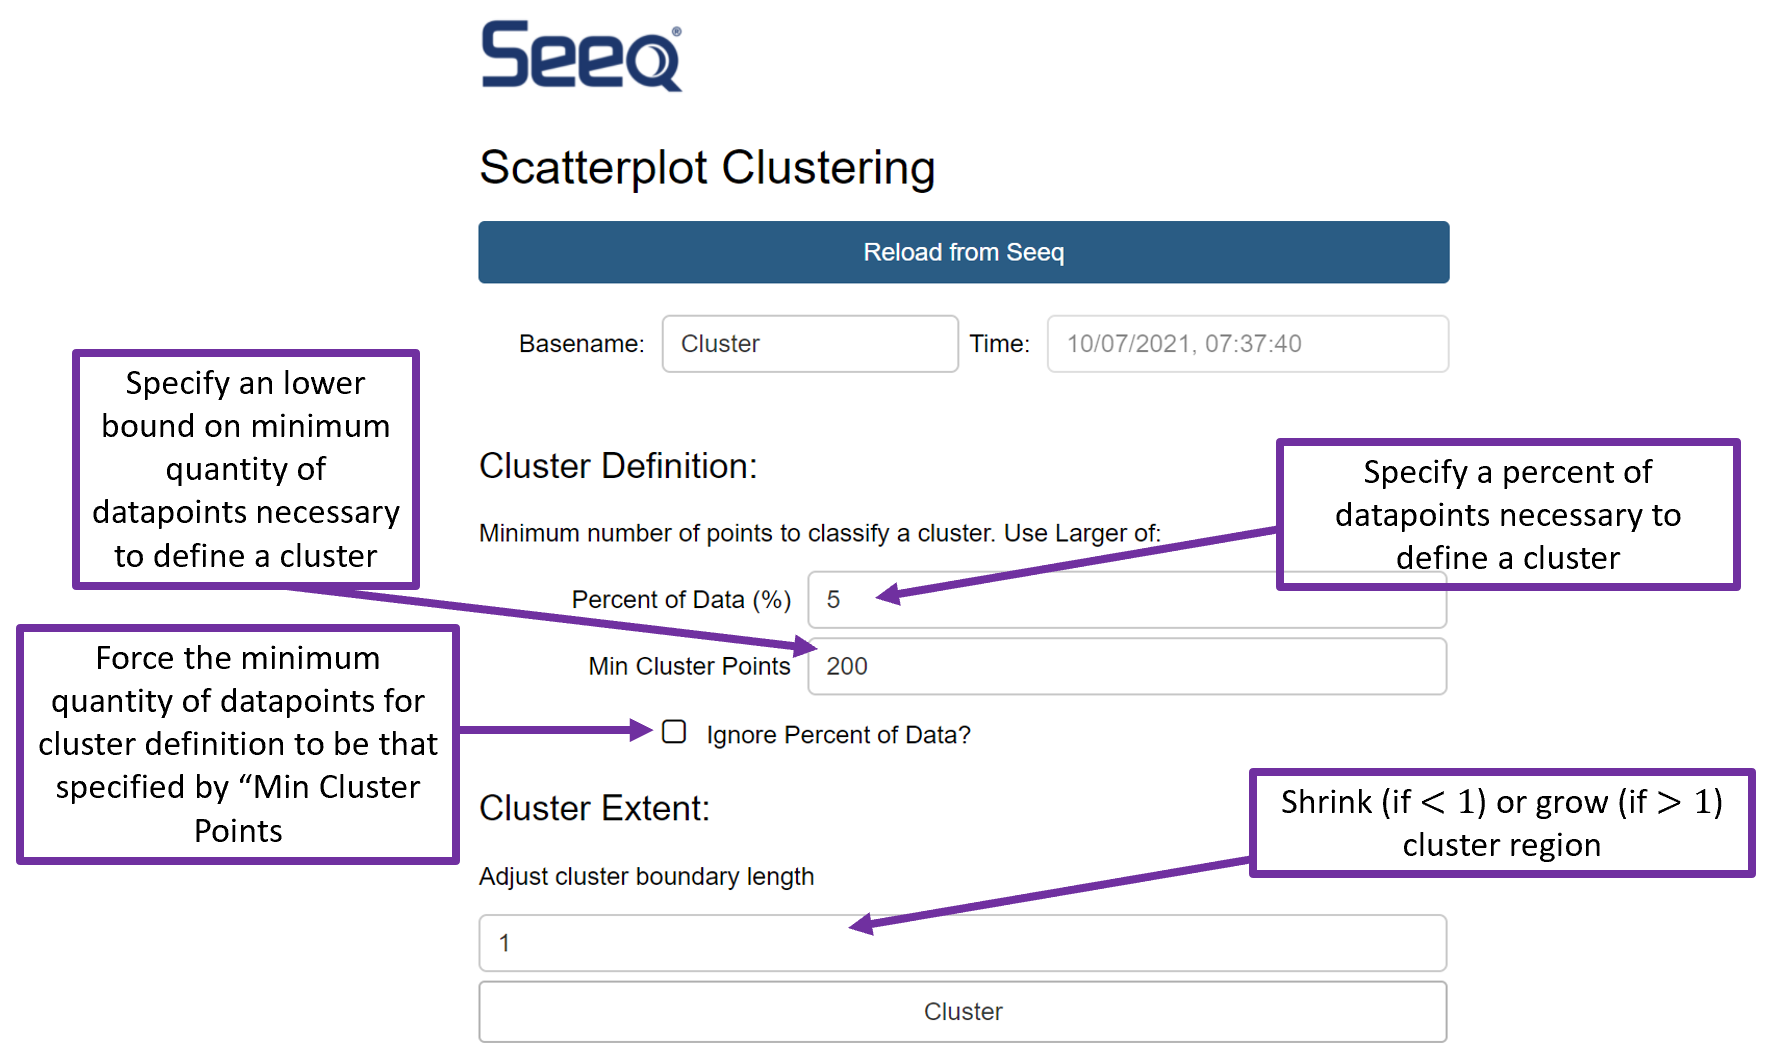
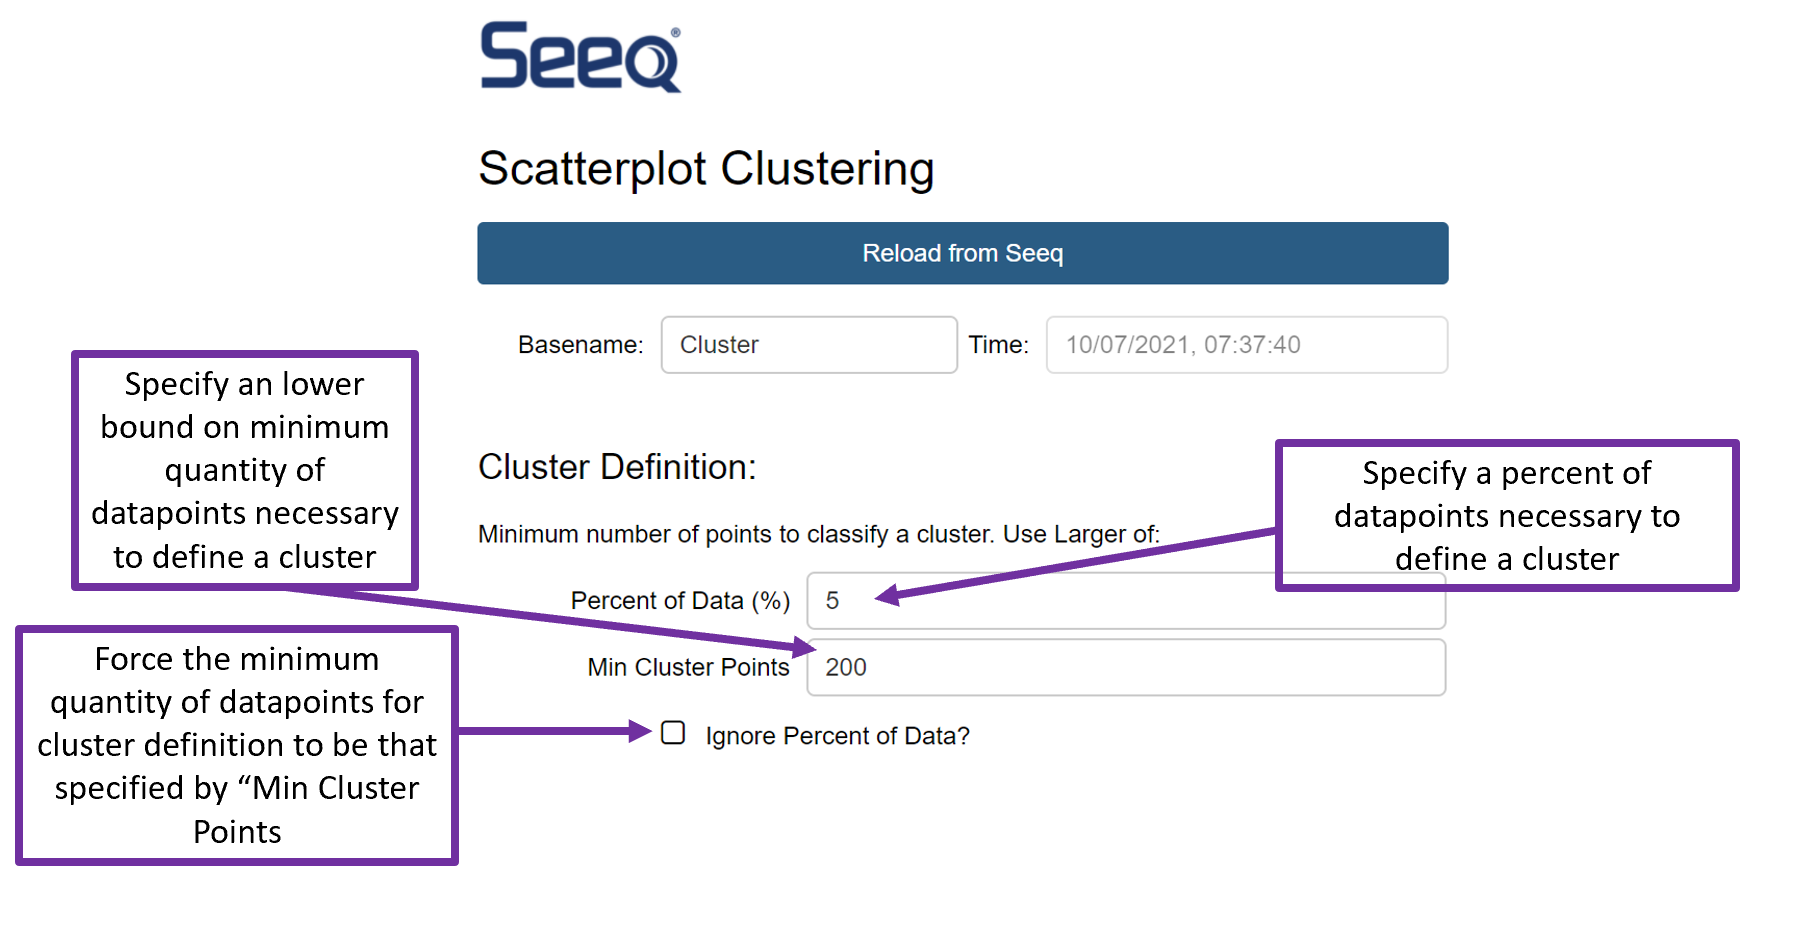
fixing the issues with visual

diff --git a/seeq/addons/clustering/app/clusterApp/main.py b/seeq/addons/clustering/app/clusterApp/main.py
@@ -331,7 +331,7 @@ class GUI():
 			print('SELECTION ERROR. Please make a selection with the lasso tool first.')
 			return
 		clusterSupervised(
-			app, buttons, xsignal, ysignal,  
+			app, buttons, xsignal, ysignal, clusterExtent, 
 			datadf, indexofselection, hist_grid_points, 
 			_cluster_name.value, _cluster_time.value
 		)

diff --git a/README.md b/README.md
@@ -25,6 +25,8 @@ When you open the tool, you will be met with two options:
 
 ## Visual (Supervised)
 
+Visual clustering will only work on 2-dimensional data. You simply define a region, manually, and seeq-clustering will look for datapoints in that region. See an explanation for [how it works](#how-it-works-visual)
+
 ![N|Scheme](images/visual.PNG)
 
 
@@ -38,7 +40,7 @@ Whichever mode (Visual or Density) you choose, the form of the clusters returned
 
 ### Explanation of Density Based Parameters
 
-**Minimum Cluster Size (mcs)** - the minimum number of datapoints which much be including in a cluster for it to be classified as a viable cluster. A larger number will produce fewer clusters, which are contain more data each. 
+**Minimum Cluster Size (mcs)** - the minimum number of datapoints which much be including in a cluster for it to be classified as a viable cluster. A larger number will produce fewer clusters, which are contain more data each. See [examples](#density-based-examples)
 
 - There are two ways to specify mcs. Either by specifying a number (*e.g.* "I want my clusters to contain no fewer that 200 points") or by a percent of the total number of data points (*e.g.* "I want my clusters to contain no less that 5% of the data"). 
 ***note*** *percent of datapoints is calculated based on Display Range.* 
@@ -49,7 +51,11 @@ Whichever mode (Visual or Density) you choose, the form of the clusters returned
 
 You can override the behavior by checking the ``Ignore Percent of data?`` checkbox. Doing so will force `mcs = Min Cluster Points`
 
-**Cluster Extent**
+
+
+#### Density Based Examples
+
+#### How it works (Visual)
 
 ----
 
